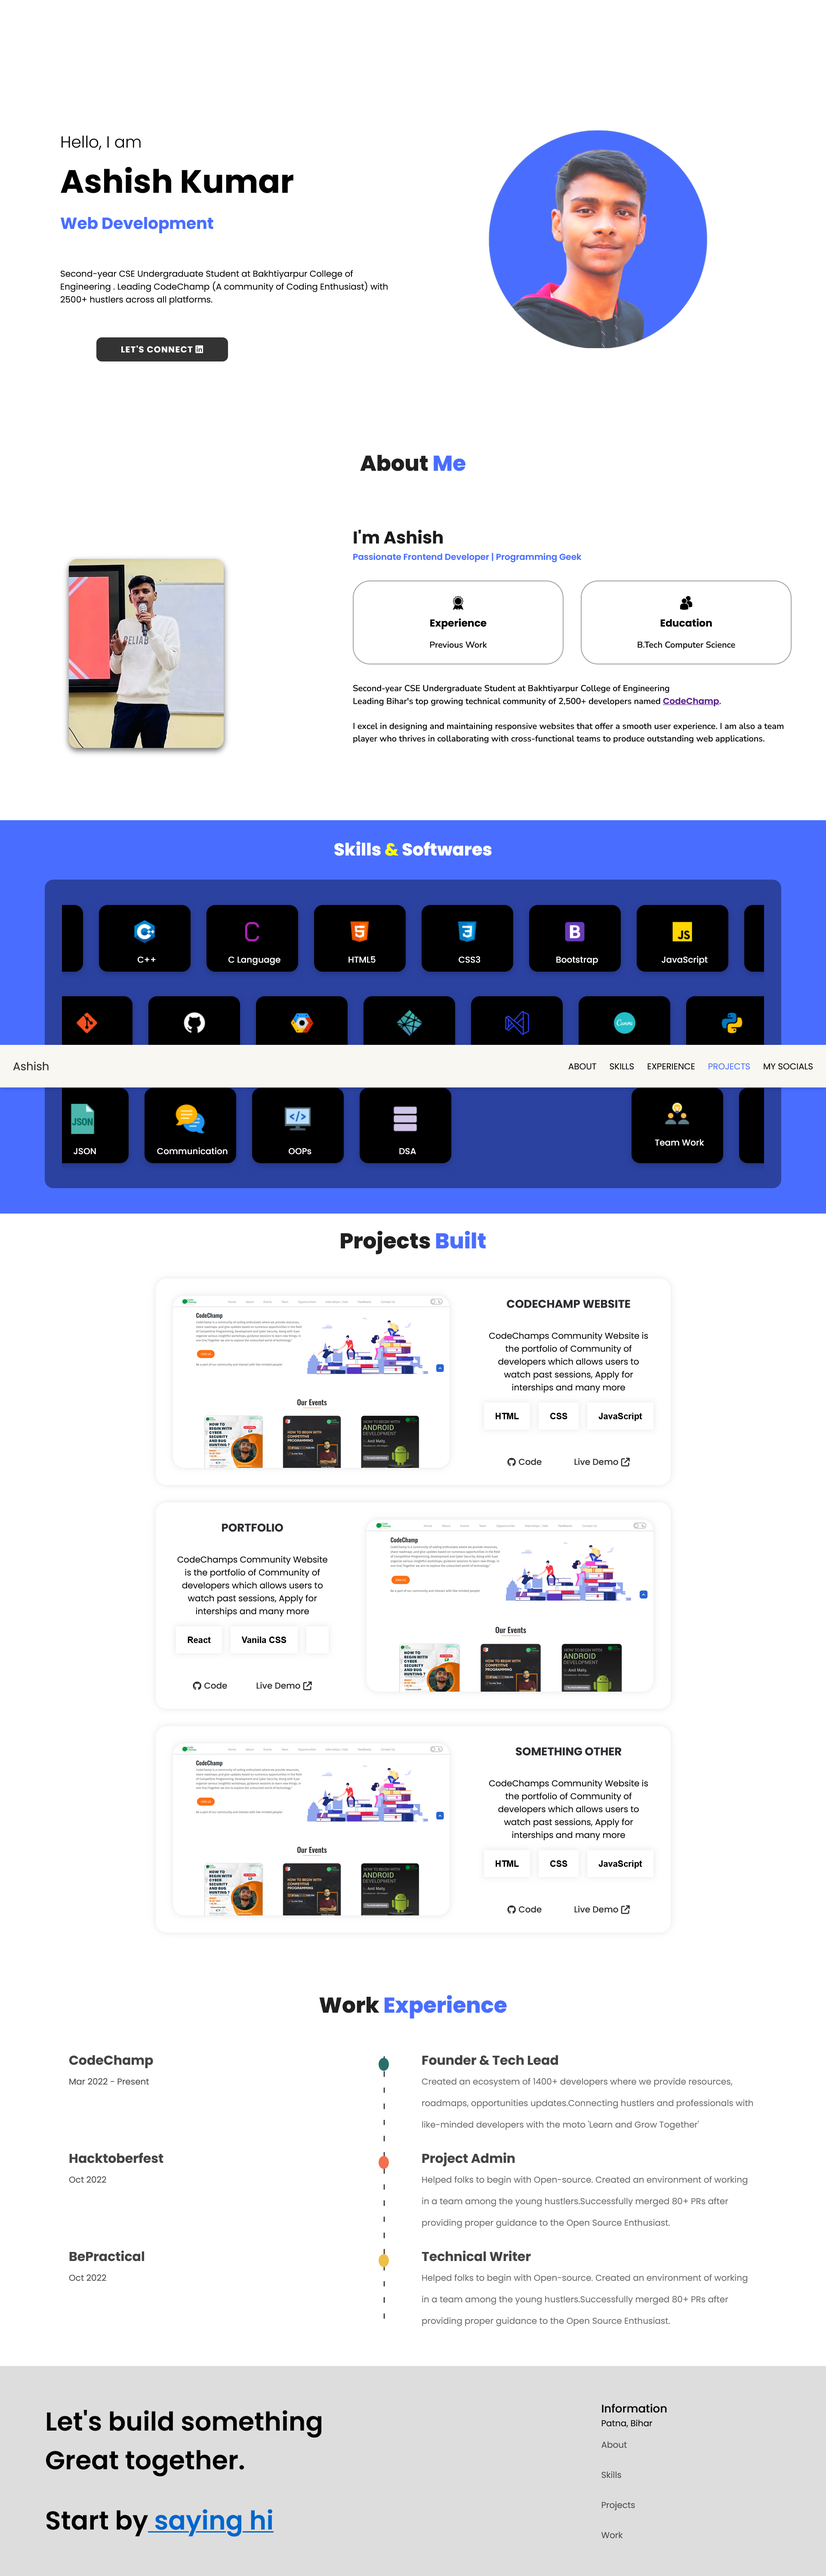
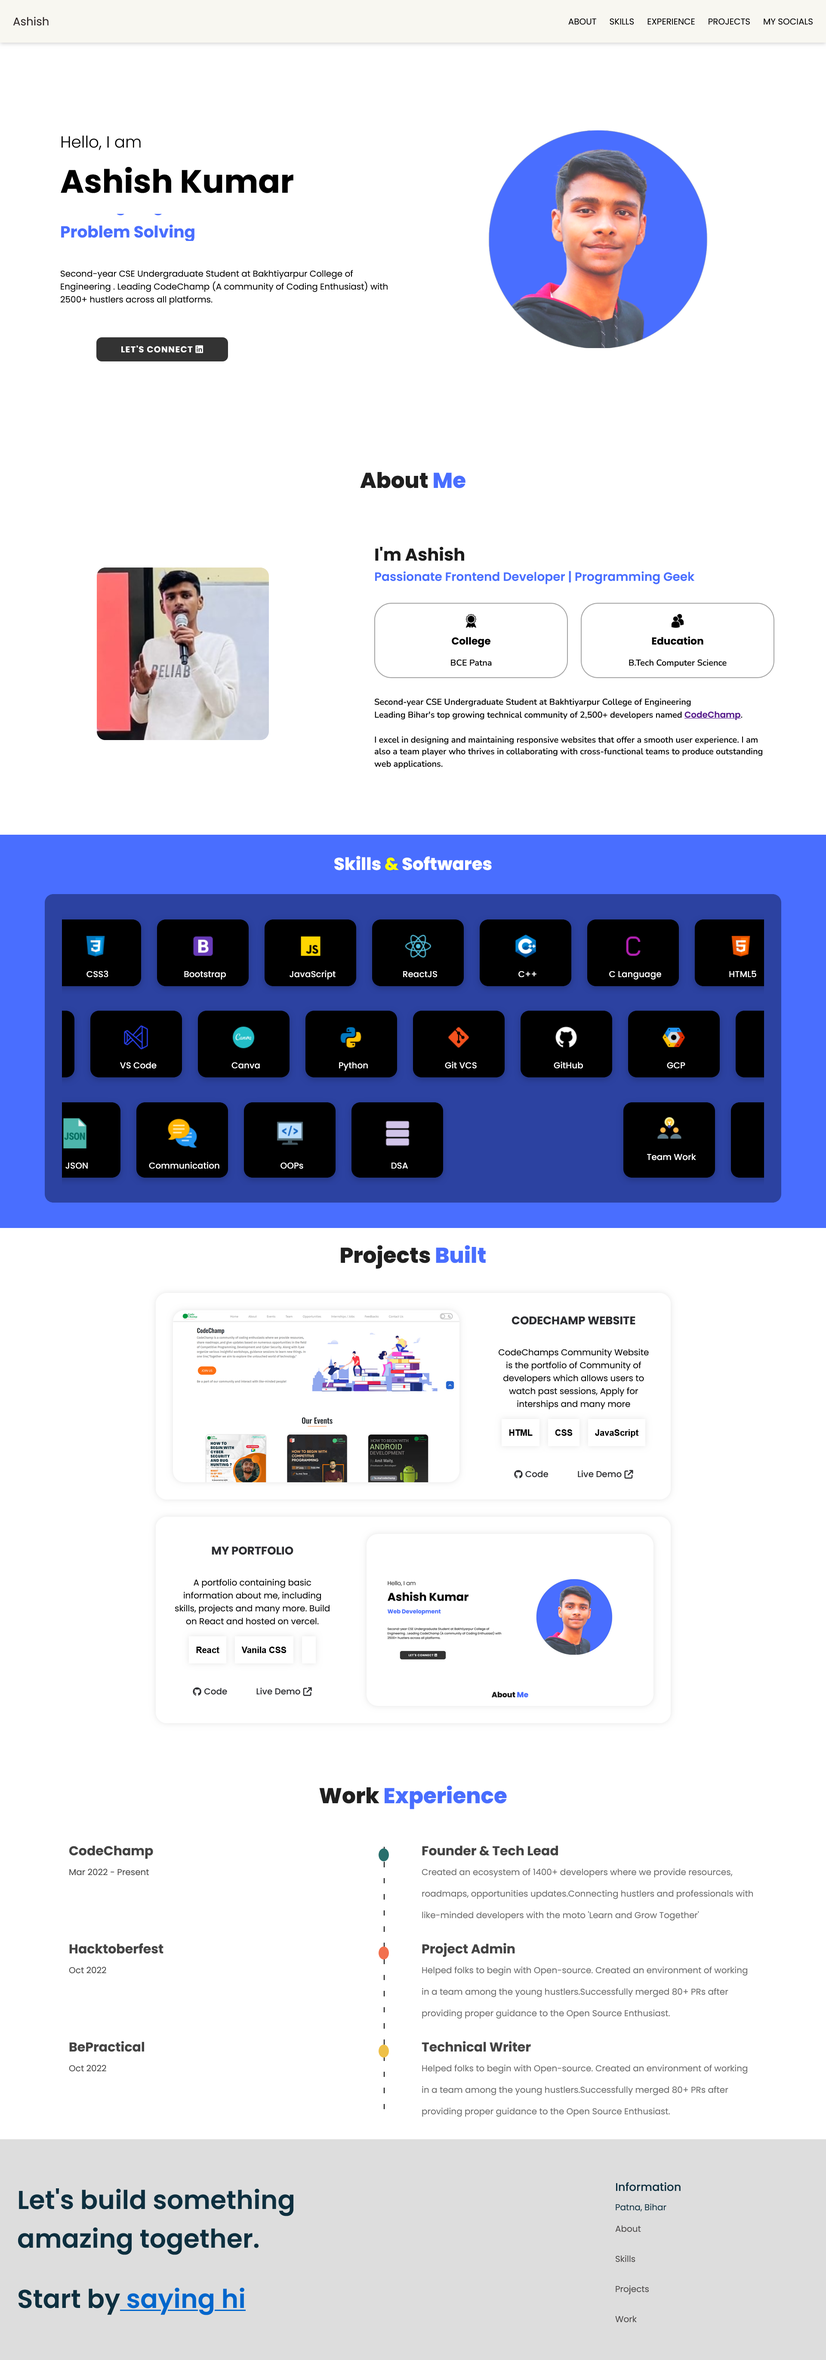
Improved Responsiveness

Changed region(s): [[0.0, 0.1559, 1.0, 0.9976], [0.5938, 0.0312, 0.875, 0.1559], [0.0625, 0.0624, 0.4375, 0.1559]]

diff --git a/src/components/about/about.css b/src/components/about/about.css
@@ -7,6 +7,7 @@
 
 .about {
   background: rgb(255, 255, 255);
+  padding: 2rem;
 }
 .heading-about {
   font-size: 2.5rem;
@@ -26,13 +27,14 @@
 }
 
 .about .row .image {
-  flex: 1 1 30rem;
+  text-align: center;
+  flex: 1 1 35rem;
+  margin-top: 2rem;
 }
 .about .row .image img {
-  margin: 7rem;
-  width: 50%;
+  margin: 4rem;
+  width: 20rem;
   border-radius: 5%;
-  box-shadow: 0 5px 10px rgba(0, 0, 0, 0.6);
   transition: 0.3s;
   cursor: pointer;
 }
@@ -45,7 +47,7 @@
   font-size: 2rem;
 }
 .about .row .content .tag {
-  font-size: 1rem;
+  font-size: 1.4rem;
   color: #496eff;
   font-weight: 600;
   margin-top: 1rem;
@@ -53,12 +55,12 @@
 
 .about-container {
   display: flex;
-  gap: 2rem;
+  gap: 1.5rem;
   margin: 2rem 0;
 }
 
 .detail-container {
-  padding: 1.5rem;
+  padding: 1rem;
   flex: 1;
   background: white;
   border-radius: 2rem;
@@ -80,11 +82,32 @@
 }
 
 @media screen and (max-width: 480px) {
+  .heading-about {
+    max-width: 70%;
+  }
+  .row {
+    padding: 0.5rem;
+    margin-bottom: 4rem;
+  }
   .about .row .image img {
-    margin: 1rem 7rem;
+    margin: 0 auto;
+    width: 80%;
+  }
+
+  .about .row .content .tag {
+    font-size: 0.9rem;
+  }
+
+  .about .row .content p {
+    font-size: 0.9rem;
+  }
+
+  .about .row .content {
+    padding: 1rem;
   }
 
   .about-container {
     flex-direction: column;
+    padding: 0.5rem;
   }
 }

diff --git a/src/components/footer/footer.css b/src/components/footer/footer.css
@@ -1,7 +1,7 @@
 @import url("https://fonts.googleapis.com/css2?family=Public+Sans:wght@600&display=swap");
 .footer-section {
-  margin-top: 2rem;
-  padding: 2rem 4rem;
+  padding: 2rem 2rem;
+  color: #0d2f3f;
   background-color: #dddddd;
   font-family: "Public Sans", sans-serif;
 }
@@ -10,7 +10,7 @@
   display: flex;
   justify-content: center;
   align-items: center;
-  padding: 2rem 20px;
+  padding: 2rem 0;
   gap: 2rem;
 }
 
@@ -37,7 +37,7 @@
 }
 
 .footer-right .footer-info .right-text {
-  line-height: 30px;
+  line-height: 50px;
   font-size: 1.3rem;
   font-weight: 500;
 }
@@ -75,7 +75,7 @@
   }
 
   .footer-left span {
-    font-size: 2.2rem;
+    font-size: 2.5rem;
     line-height: 3.5rem;
     font-weight: 520;
   }

diff --git a/src/components/about/about.jsx b/src/components/about/about.jsx
@@ -17,7 +17,7 @@ const About = () => {
         <div className="content">
           <h3 className="MyName">I'm Ashish</h3>
           <span className="tag">
-            Passionate Frontend Developer | Programming Geek{" "}
+            Passionate Frontend Developer | Programming Geek
           </span>
 
           <div className="about-container">

diff --git a/src/components/footer/footer.jsx b/src/components/footer/footer.jsx
@@ -6,7 +6,7 @@ const Footer = () => {
       <div className="footer">
         <div className="footer-left">
           <span className="quote-text">
-            Let's build something <br /> Great together.
+            Let's build something <br /> amazing together.
           </span>
 
           <span className="quote-text">

diff --git a/src/components/Skills/skills.css b/src/components/Skills/skills.css
@@ -32,11 +32,12 @@
 
 @media screen and (max-width: 480px) {
   .skills {
-    height: 80vh;
+    min-height: 80vh;
   }
 
   .container {
     width: 80vw;
+    height: auto;
     padding: 1rem;
   }
 }

diff --git a/src/index.css b/src/index.css
@@ -4,10 +4,10 @@ body {
   box-sizing: border-box;
   scroll-behavior: smooth;
 }
-
+/*
 @media screen and (max-width: 480px) {
   body {
     overflow-x: hidden;
     width: 100%;
   }
-}
+}*/

diff --git a/src/components/Projects/projects-card.css b/src/components/Projects/projects-card.css
@@ -107,7 +107,7 @@
 
   .image-card {
     width: 100%;
-    height: 32%;
+    height: 40%;
   }
 
   .pro-text {

diff --git a/src/components/intro/introduction.css b/src/components/intro/introduction.css
@@ -143,6 +143,7 @@
   .main {
     flex-direction: column;
     height: 90vh;
+
     padding: 0;
   }
 
